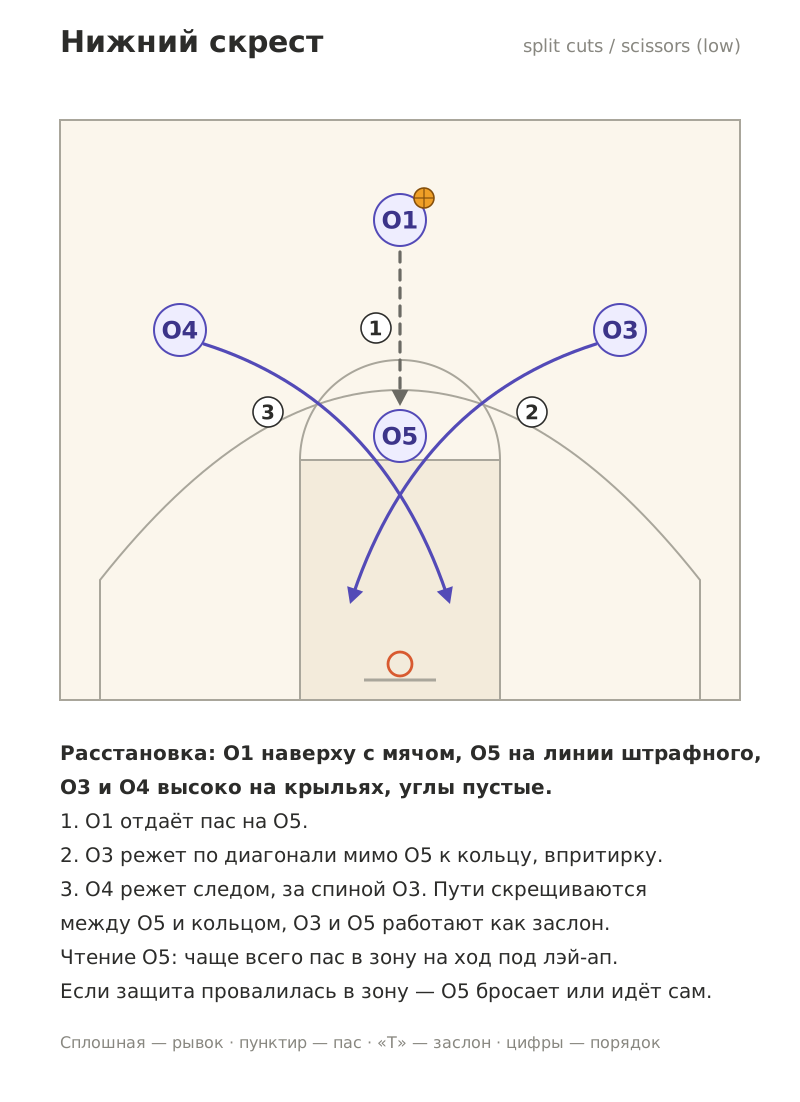
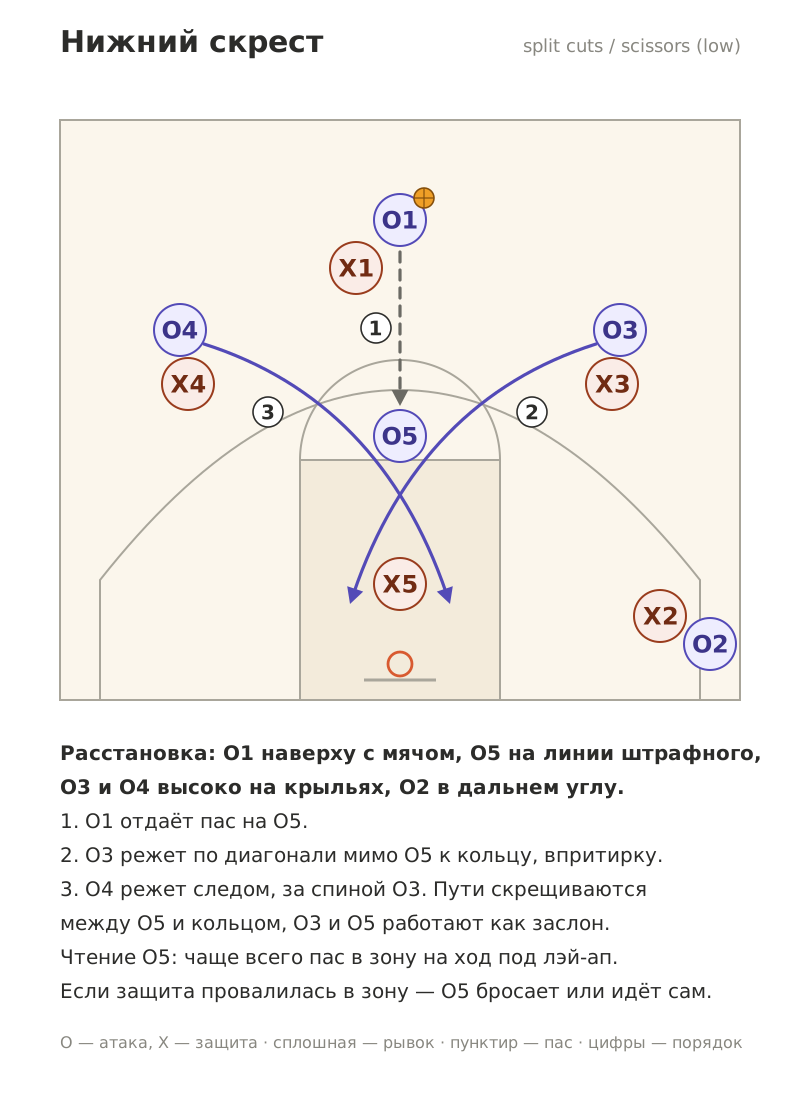
Show all ten players on the cross and scissors diagrams
Claude-Session: https://claude.ai/code/session_01UhMy62ujh4CaQqbZMVLs31

diff --git a/tools/make_diagrams.py b/tools/make_diagrams.py
@@ -134,7 +134,8 @@ def card(title, subtitle, drawing, lines, legend):
 
 LEGEND = "Сплошная — рывок · пунктир — пас · «Т» — заслон · цифры — порядок"
 LEGEND_DEF = "O — атака, X — защита · сплошная — рывок · оранжевый — защита"
-LEGEND_SCR = "Сплошная — рывок · «Т» — заслон на защитника X · цифры — порядок"
+LEGEND_SCR = "O — атака, X — защита · сплошная — рывок · «Т» — заслон · цифры — порядок"
+LEGEND_FULL = "O — атака, X — защита · сплошная — рывок · пунктир — пас · цифры — порядок"
 
 
 # ---------- the plays ----------
@@ -144,11 +145,14 @@ def lower_scissors():
     d += arrow("quad", [(288, 132), (200, 160), (165, 262)], CUT)
     d += arrow("quad", [(92, 132), (180, 160), (215, 262)], CUT)
     d += player(190, 70, "O1", ball=True) + player(190, 178, "O5")
-    d += player(300, 125, "O3") + player(80, 125, "O4")
+    d += player(300, 125, "O3") + player(80, 125, "O4") + player(345, 282, "O2")
+    d += player(168, 94, "X1", side=DEF) + player(190, 252, "X5", side=DEF)
+    d += player(296, 152, "X3", side=DEF) + player(84, 152, "X4", side=DEF)
+    d += player(320, 268, "X2", side=DEF)
     d += step(178, 124, 1) + step(256, 166, 2) + step(124, 166, 3)
     lines = [
         "**Расстановка: O1 наверху с мячом, O5 на линии штрафного,",
-        "**O3 и O4 высоко на крыльях, углы пустые.",
+        "**O3 и O4 высоко на крыльях, O2 в дальнем углу.",
         "1. O1 отдаёт пас на O5.",
         "2. O3 режет по диагонали мимо O5 к кольцу, впритирку.",
         "3. O4 режет следом, за спиной O3. Пути скрещиваются",
@@ -156,7 +160,7 @@ def lower_scissors():
         "Чтение O5: чаще всего пас в зону на ход под лэй-ап.",
         "Если защита провалилась в зону — O5 бросает или идёт сам.",
     ]
-    return card("Нижний скрест", "split cuts / scissors (low)", d, lines, LEGEND)
+    return card("Нижний скрест", "split cuts / scissors (low)", d, lines, LEGEND_FULL)
 
 
 def upper_scissors():
@@ -164,8 +168,11 @@ def upper_scissors():
     d += arrow("cubic", [(288, 132), (220, 145), (160, 150), (150, 255)], CUT)
     d += arrow("cubic", [(92, 132), (160, 145), (220, 150), (230, 255)], CUT)
     d += player(190, 70, "O1", ball=True) + player(190, 190, "O5")
-    d += player(300, 125, "O3") + player(80, 125, "O4")
-    d += step(178, 112, 1) + step(242, 126, 2) + step(138, 126, 3)
+    d += player(300, 125, "O3") + player(80, 125, "O4") + player(345, 282, "O2")
+    d += player(168, 94, "X1", side=DEF) + player(190, 220, "X5", side=DEF)
+    d += player(296, 152, "X3", side=DEF) + player(84, 152, "X4", side=DEF)
+    d += player(320, 268, "X2", side=DEF)
+    d += step(204, 118, 1) + step(242, 126, 2) + step(138, 126, 3)
     lines = [
         "**Та же расстановка, но рывки скрещиваются над O5 —",
         "**между ним и мячом — и уходят в зону по бокам от него.",
@@ -176,7 +183,7 @@ def upper_scissors():
         "защитник перекрыл сверху — пас на ход в зону;",
         "защитники поменялись — мяч тому, у кого мисматч.",
     ]
-    return card("Верхний скрест", "split cuts / scissors (high)", d, lines, LEGEND)
+    return card("Верхний скрест", "split cuts / scissors (high)", d, lines, LEGEND_FULL)
 
 
 def lower_cross():
@@ -185,8 +192,10 @@ def lower_cross():
     d += screen("line", [(194, 124), (222, 184)])
     d += arrow("quad", [(240, 256), (240, 180), (318, 168)], CUT)
     d += player(65, 150, "O1", ball=True) + player(190, 110, "O2")
-    d += player(128, 266, "O3") + player(266, 258, "O5")
+    d += player(128, 266, "O3") + player(266, 258, "O5") + player(345, 282, "O4")
     d += player(248, 280, "X5", side=DEF) + player(226, 200, "X3", side=DEF)
+    d += player(86, 168, "X1", side=DEF) + player(172, 130, "X2", side=DEF)
+    d += player(318, 268, "X4", side=DEF)
     d += step(160, 288, 1) + step(172, 212, 2) + step(196, 170, 3) + step(290, 210, 4)
     lines = [
         "**Заслон поперёк, а потом заслон самому заслонщику.",
@@ -206,7 +215,10 @@ def upper_cross():
     d += arrow("line", [(212, 166), (204, 116)], CUT)
     d += player(65, 150, "O1", ball=True)
     d += player(132, 183, "O4") + player(256, 188, "O3")
-    d += player(234, 168, "X3", side=DEF)
+    d += player(322, 168, "O2") + player(118, 262, "O5")
+    d += player(234, 168, "X3", side=DEF) + player(86, 168, "X1", side=DEF)
+    d += player(112, 204, "X4", side=DEF) + player(300, 184, "X2", side=DEF)
+    d += player(142, 276, "X5", side=DEF)
     d += step(182, 170, 1) + step(190, 236, 2) + step(226, 128, 3)
     lines = [
         "**Та же идея на уровне линии штрафного (элбоу).",
